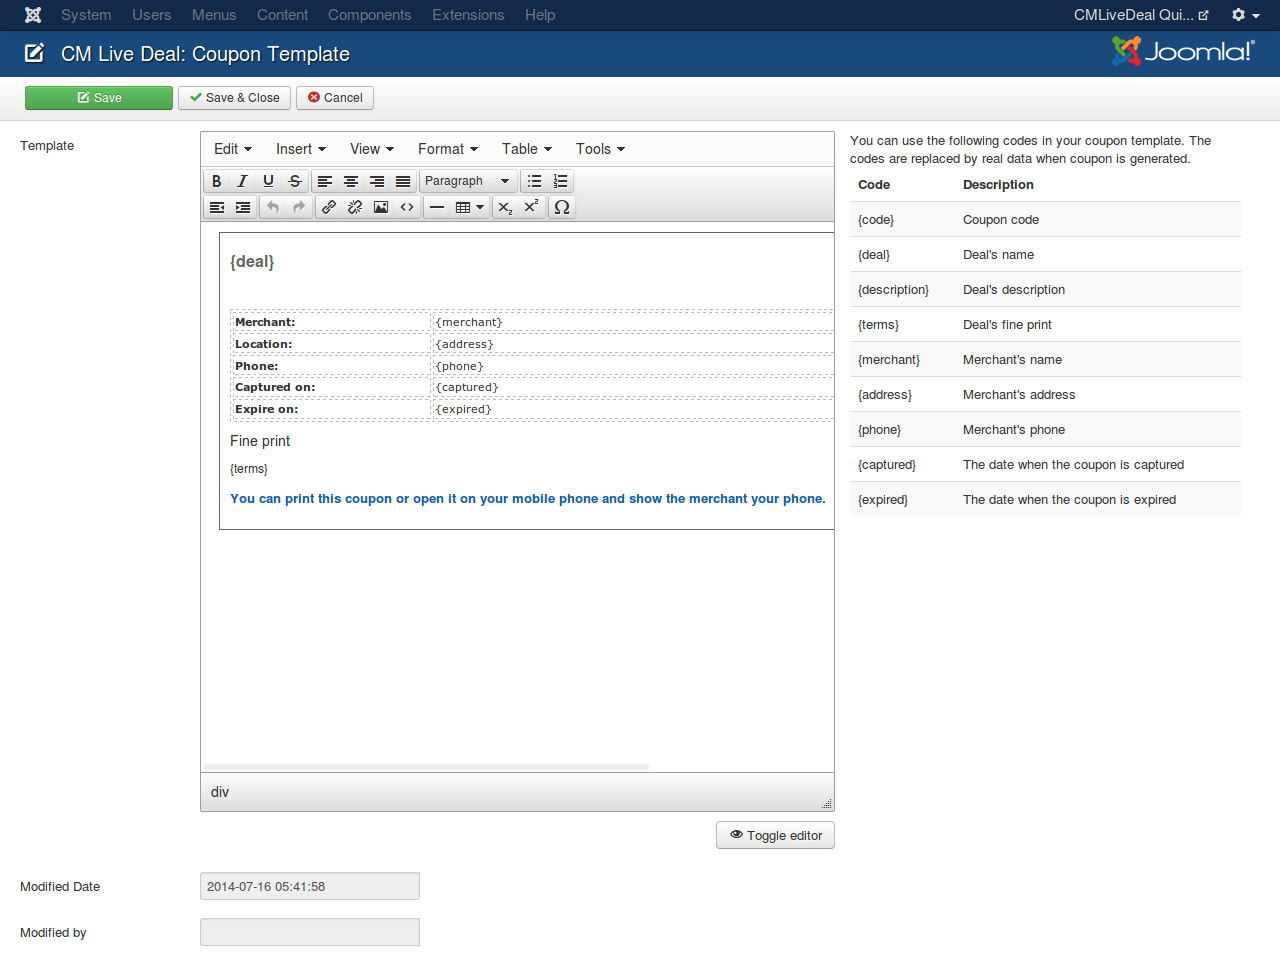
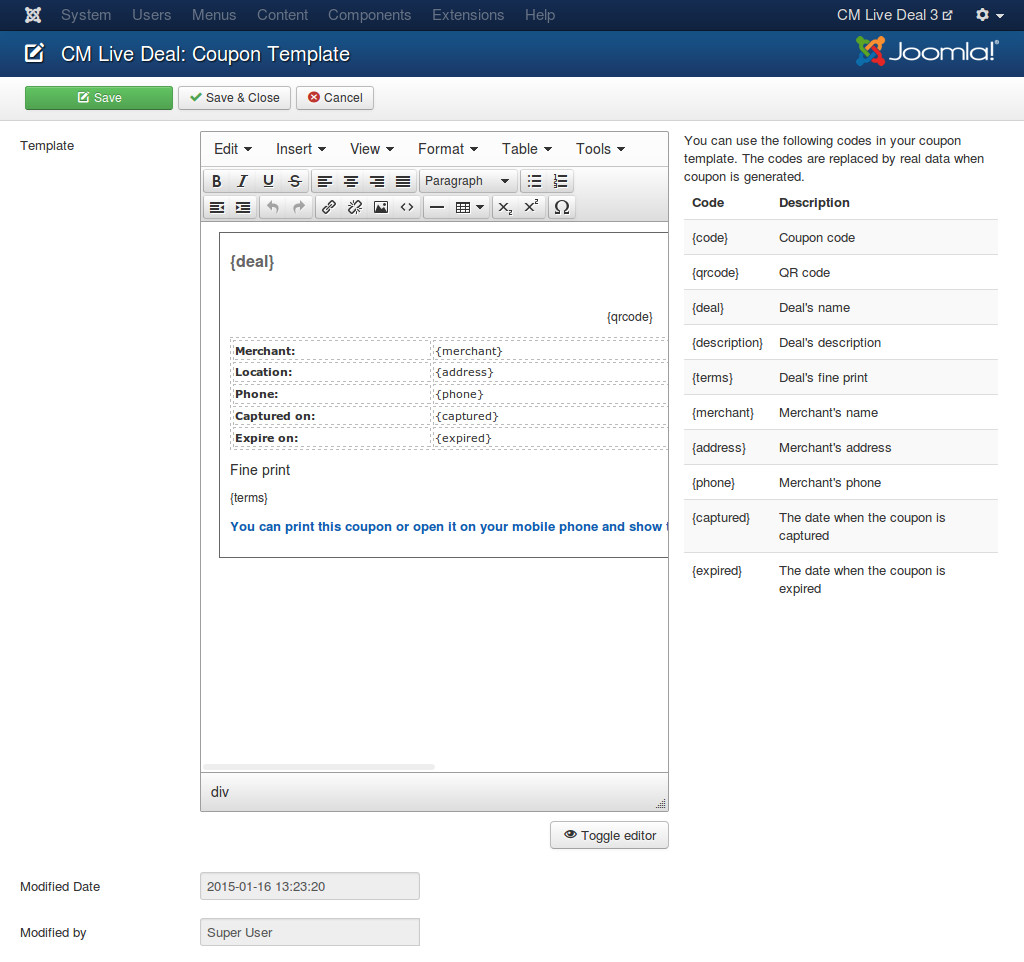
1.3.0-beta

diff --git a/pages/configuration.rst b/pages/configuration.rst
@@ -114,6 +114,8 @@ Deal
 * **Geolocation service**: The service you use to detect user's location.
 * **Search radius from user's location**: The radius in kilometer to search for nearby deals of user. Default is 5 kilometers. This value is used when user searches for deals in his/her location by using the search module.
 * **Location cookie's lifetime**: Detect user's location requires reading the database file and make the server slow. User's location can be stored in cookie and reused later to reduce the file reads from server. With this option you can set how many days this cookie is available. Default value is 7 (days). You can disable storing cookie by using 0 value. You can view :ref:`ref-search` for more information.
+* **Display merchant's photos**: Display the slideshow for merchant's photos in deal's popup.
+* **Auto approve new deals**: If enabled, new deals that are submitted by merchants are approved and published by default. Enable this option if you don't want to manually check and approve/publish every submitted deal.
 
 Coupon
 ^^^^^^
@@ -126,6 +128,8 @@ Coupon
   * *Latin alphabetic characters only (from A to Z)*: for example, "GWLCA".
   * *Latin numeric characters only (from 0 to 9)*: for example, "83061".
   * *Latin alphabetic and numeric*: for example, "F52H2".
+
+* **QR code's size**: The size of coupon's QR code in pixel.
 
 Permissions
 ^^^^^^^^^^^

diff --git a/pages/coupontemplate.rst b/pages/coupontemplate.rst
@@ -18,7 +18,8 @@ In the form, you can use HTML and CSS to design your coupon.
 
 To display the information of deal on your coupon, you can use the following tags (shortcodes):
 
-* **{code}**: Coupon code.
+* **{code}**: Coupon's code.
+* **{qrcode}**: Coupon's QR code.
 * **{deal}**: Deal's name.
 * **{description}**: Deal's description.
 * **{terms}**: Deal's fine print.
